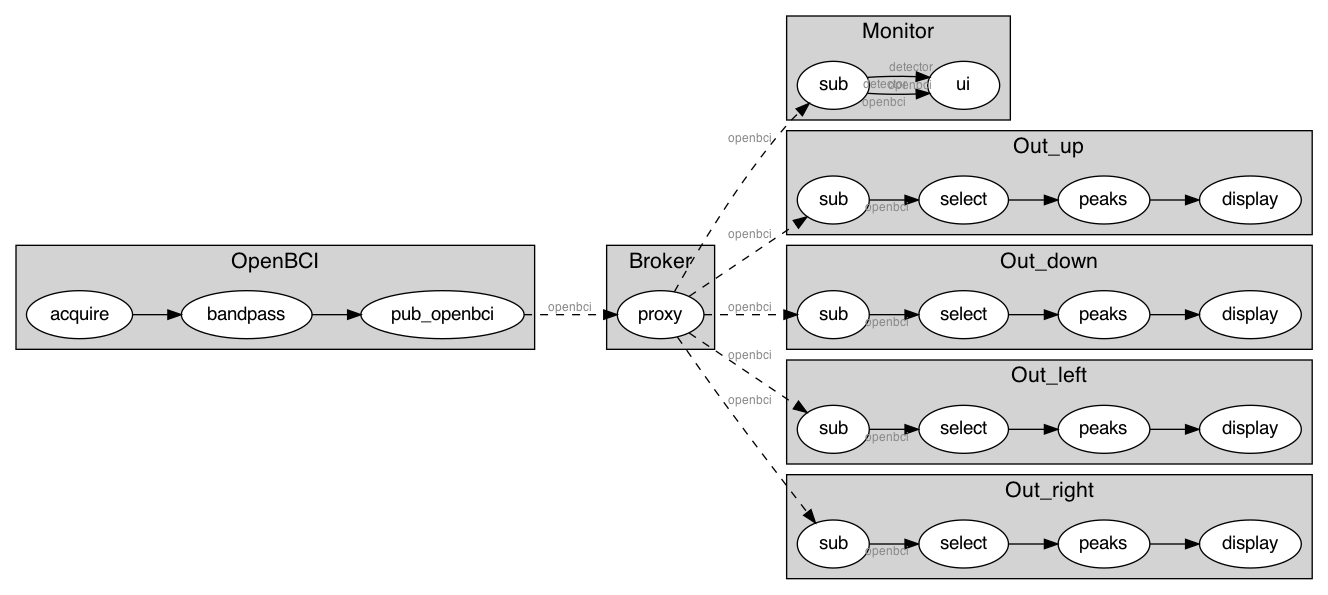
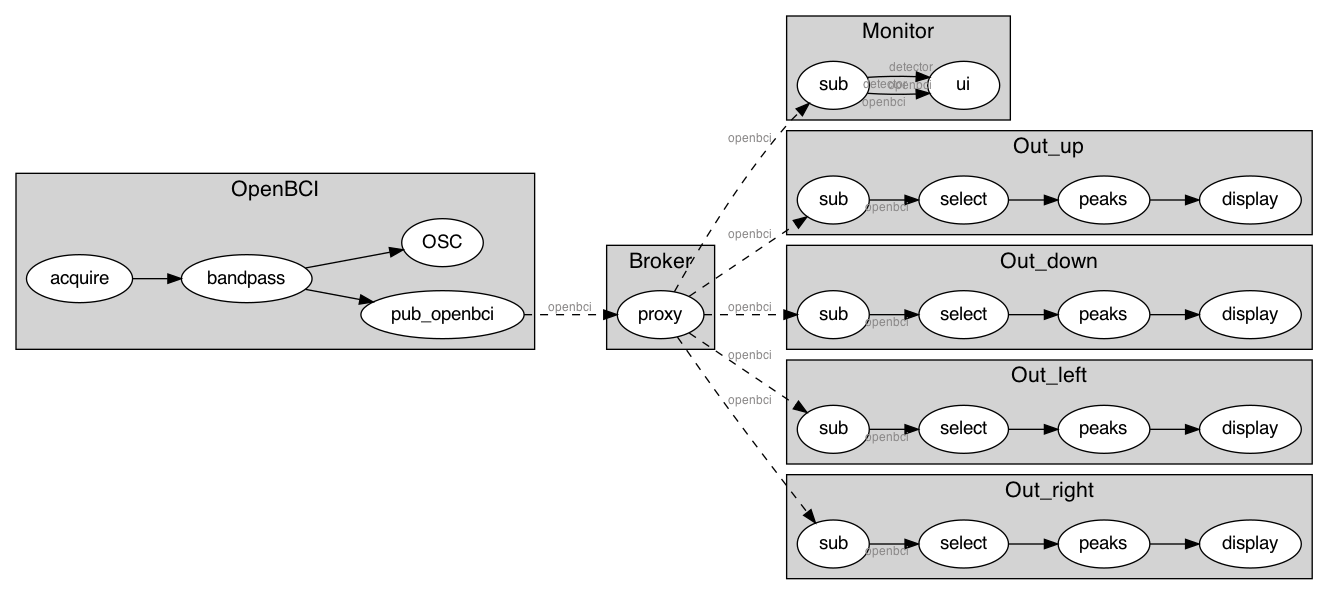
add OSC node and new operator folder

Changed region(s): [[0.0, 0.2723, 0.4014, 0.5748]]

diff --git a/EEGApi/timeflux/operator/operator/index.html b/EEGApi/timeflux/operator/operator/index.html
@@ -1,0 +1,94 @@
+<!DOCTYPE html>
+<html lang="en">
+<head>
+    <meta charset="utf-8">
+    <meta name="viewport" content="width=device-width, initial-scale=1">
+    <title>Control center</title>
+    <link rel="stylesheet" href="/common/assets/css/bulma.min.css">
+</head>
+
+<body>
+    <section class="section">
+        <div class="container" id="app">
+            <h1 class="title is-centered">Control center</h1>
+
+            <div class="box">
+                <h2 class="subtitle">Send meta</h2>
+                <div>
+                    <template v-for="({type, name, label, placeholder, required}) in fields">
+                        <div class="field is-horizontal">
+                            <div class="field-label is-normal">
+                                <label class="label"
+                                    :for="name"
+                                    :key="`label-${name}`"
+                                >{{label}}</label>
+                            </div>
+                            <div class="field-body">
+                                <div class="field">
+                                    <div class="control is-expanded">
+                                        <input class="input" v-if="type !== 'textarea'"
+                                               :type="type" :name="name"
+                                               :placeholder="placeholder"
+                                               v-model="metaData[name]"
+                                               :key="`field-${label}`"
+                                               autocomplete="off"
+                                               :required="`field-${required}`">
+                                    </div>
+                                </div>
+                            </div>
+                        </div>
+                    </template>
+
+                    <div class="field is-horizontal">
+                        <div class="field-label"></div>
+                        <div class="field-body">
+                            <div class="control">
+                                <button v-on:click="send_meta" class="button" :class="metaButtonClass" :disabled="metaButtonDisabled">
+                                    Submit
+                                </button>
+                            </div>
+                        </div>
+                    </div>
+
+                </div>
+            </div>
+
+            <div class="box">
+                <h2 class="subtitle">Send events</h2>
+                <div>
+                    <div class="field has-addons">
+                        <div class="control">
+                            <div class="select">
+                                <select v-model="eventData.label">
+                                    <option v-for="event in events">
+                                        {{event}}
+                                    </option>
+                                </select>
+                            </div>
+                        </div>
+                        <div class="control is-expanded">
+                            <input v-model="eventData.data" class="input" type="text" placeholder="">
+                        </div>
+                        <div class="control">
+                            <button v-on:click="send_event" class="button" :class="eventButtonClass">
+                                Submit
+                            </button>
+                        </div>
+                    </div>
+                </div>
+            </div>
+
+            <div class="box">
+                <h2 class="subtitle">Receive events</h2>
+                <pre>{{received}}</pre>
+            </div>
+
+        </div>
+    </section>
+</body>
+
+<script src="/common/assets/js/vue.js"></script>
+<script src="/common/assets/js/timeflux.js"></script>
+<script src="assets/app.js"></script>
+
+</html>

diff --git a/EEGApi/timeflux/operator/operator/assets/app.js b/EEGApi/timeflux/operator/operator/assets/app.js
@@ -1,0 +1,55 @@
+'use strict';
+
+let io = new IO();
+
+load_settings().then(settings => {
+
+    // Handle meta and events
+    // Metadata is sent to the special '_' stream
+    // Events are sent to the 'events' stream
+    // TODO: handle missing fields or events in settings
+    // TODO: form validation and prevent submit if invalid
+    let app = new Vue({
+        el: '#app',
+        data: {
+            metaButtonDisabled: false,
+            metaButtonClass: 'is-info',
+            eventButtonClass: 'is-info',
+            metaData: {},
+            eventData: {},
+            fields: settings.operator.fields,
+            events: settings.operator.events,
+            received: ''
+        },
+        created() {
+            io.subscribe('events');
+            io.on('events', (data) => {
+                for (let timestamp in data) {
+                    let time = new Date(parseFloat(timestamp));
+                    let h = `${time.getHours()}`.padStart(2, '0');
+                    let m = `${time.getMinutes()}`.padStart(2, '0');
+                    let s = `${time.getSeconds()}`.padStart(2, '0');
+                    let ms = `${time.getMilliseconds()}`
+                    let line = h + ':' + m + ':' + s + '.' + ms;
+                    line += ' - ' + data[timestamp]['label'] + ' - ' + data[timestamp]['data'];
+                    line += '\n';
+                    this.received = line + this.received;
+                }
+            })
+        },
+        methods: {
+            send_meta() {
+                io.meta(this.metaData);
+                this.metaButtonClass = 'is-success';
+                this.metaButtonDisabled = true;
+            },
+            send_event() {
+                if (this.eventData.label) {
+                    io.event(this.eventData.label, this.eventData.data);
+                    this.eventData = {};
+                }
+            }
+        }
+    });
+
+});
